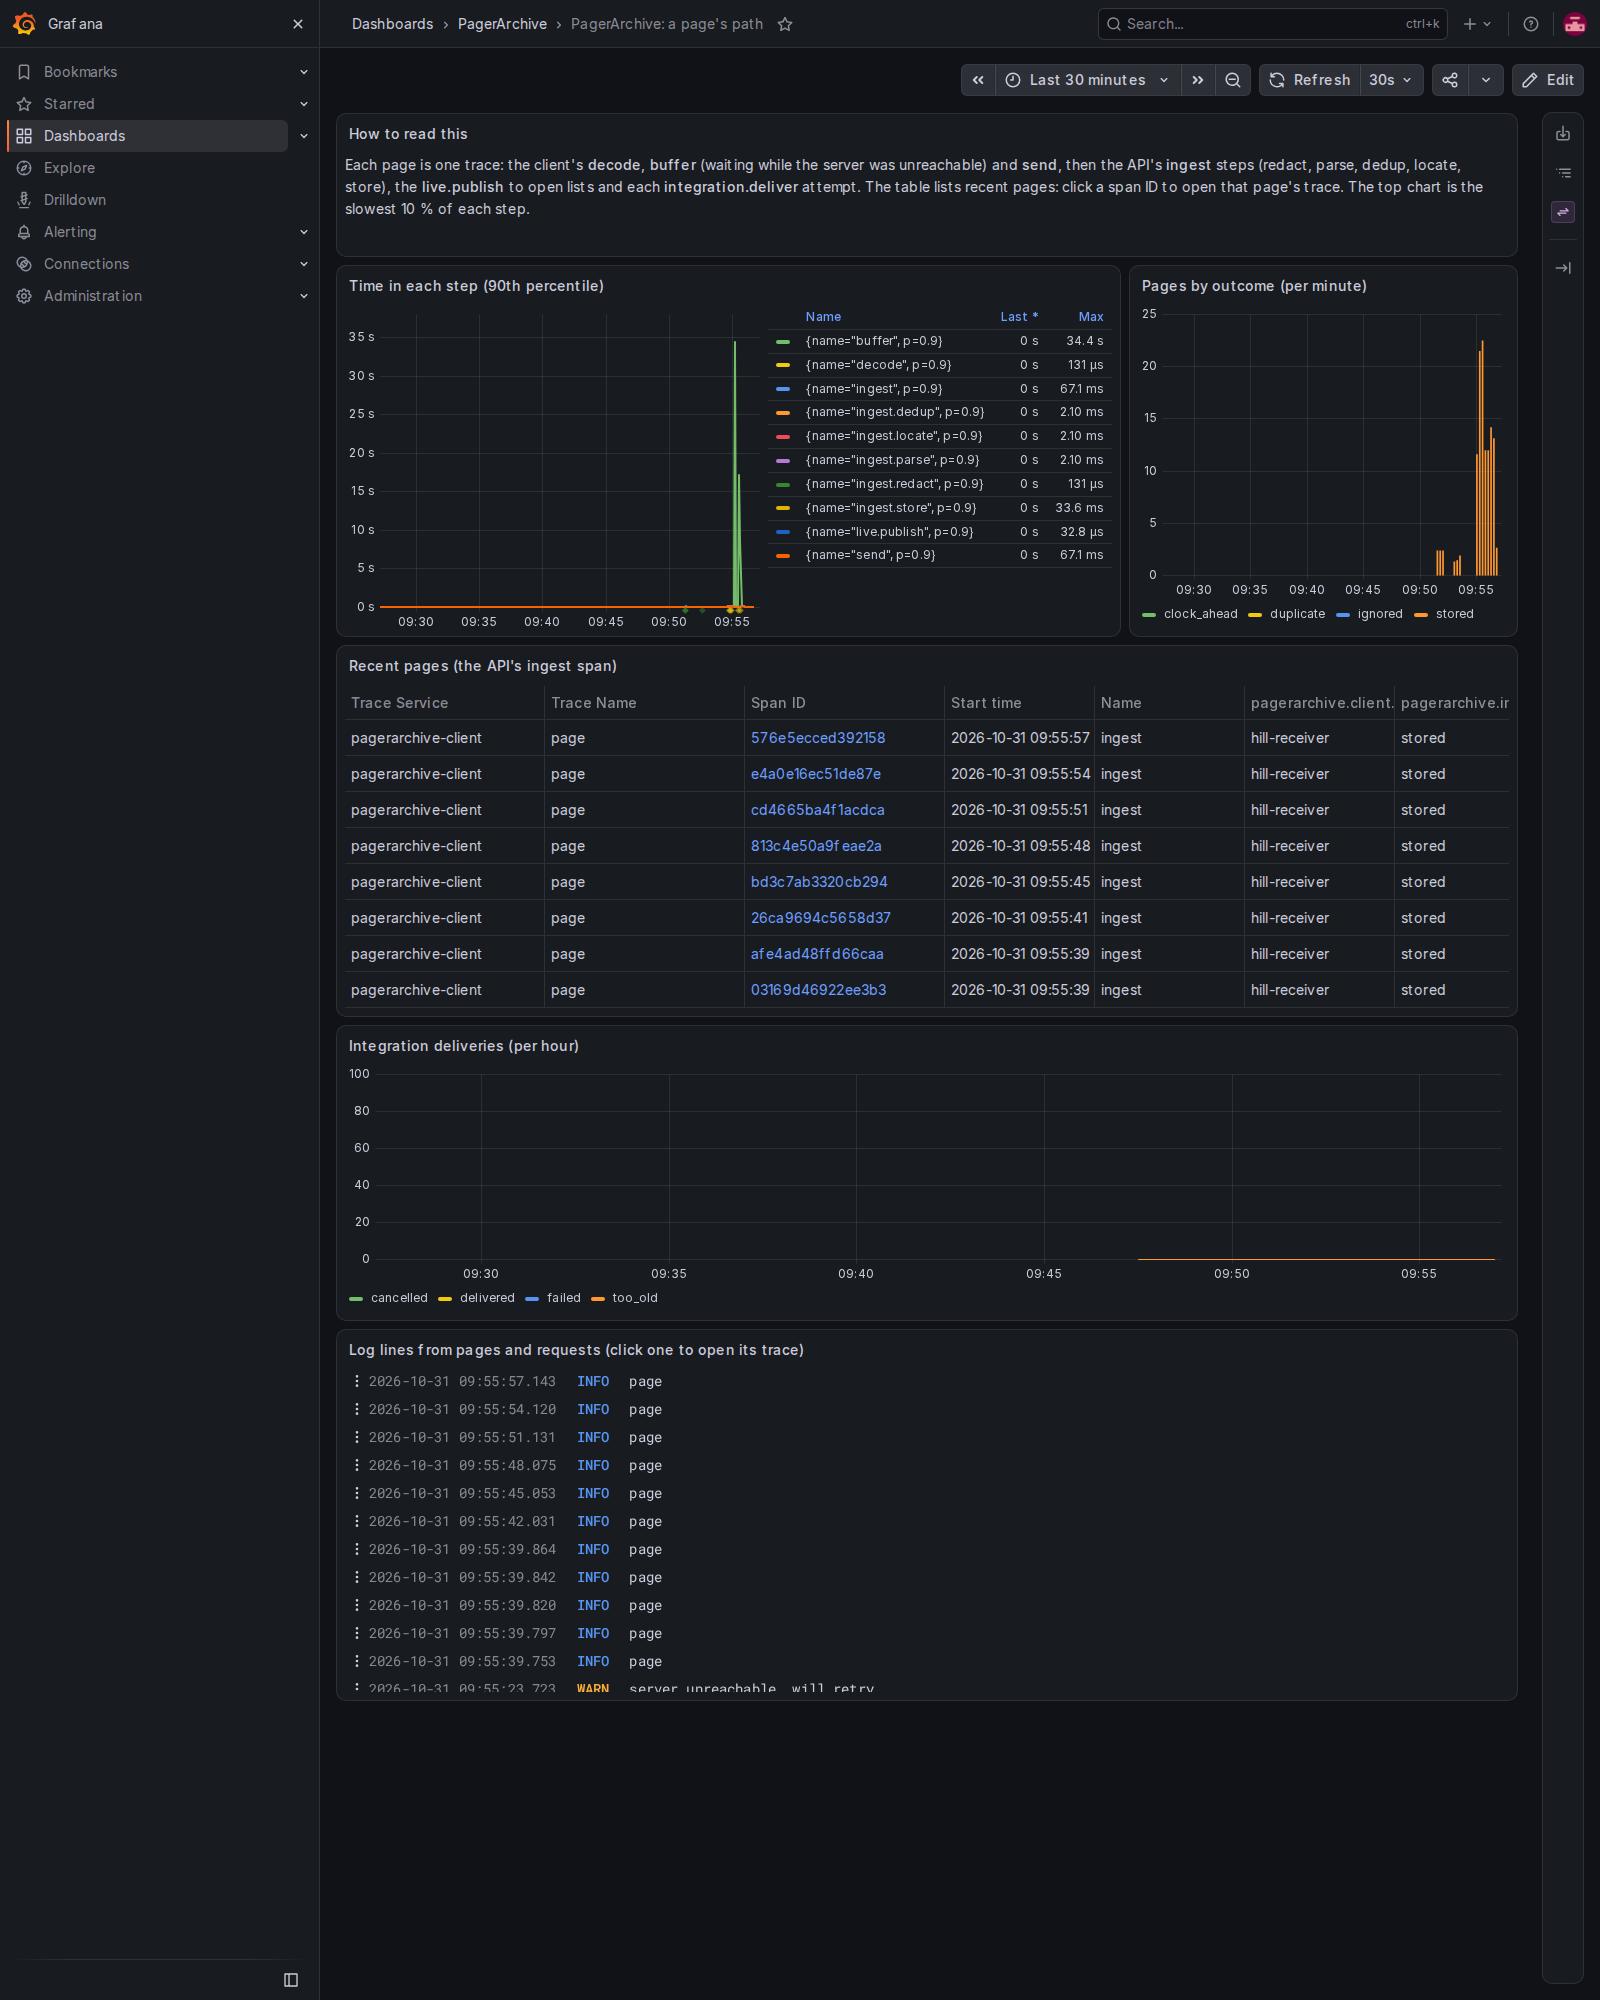
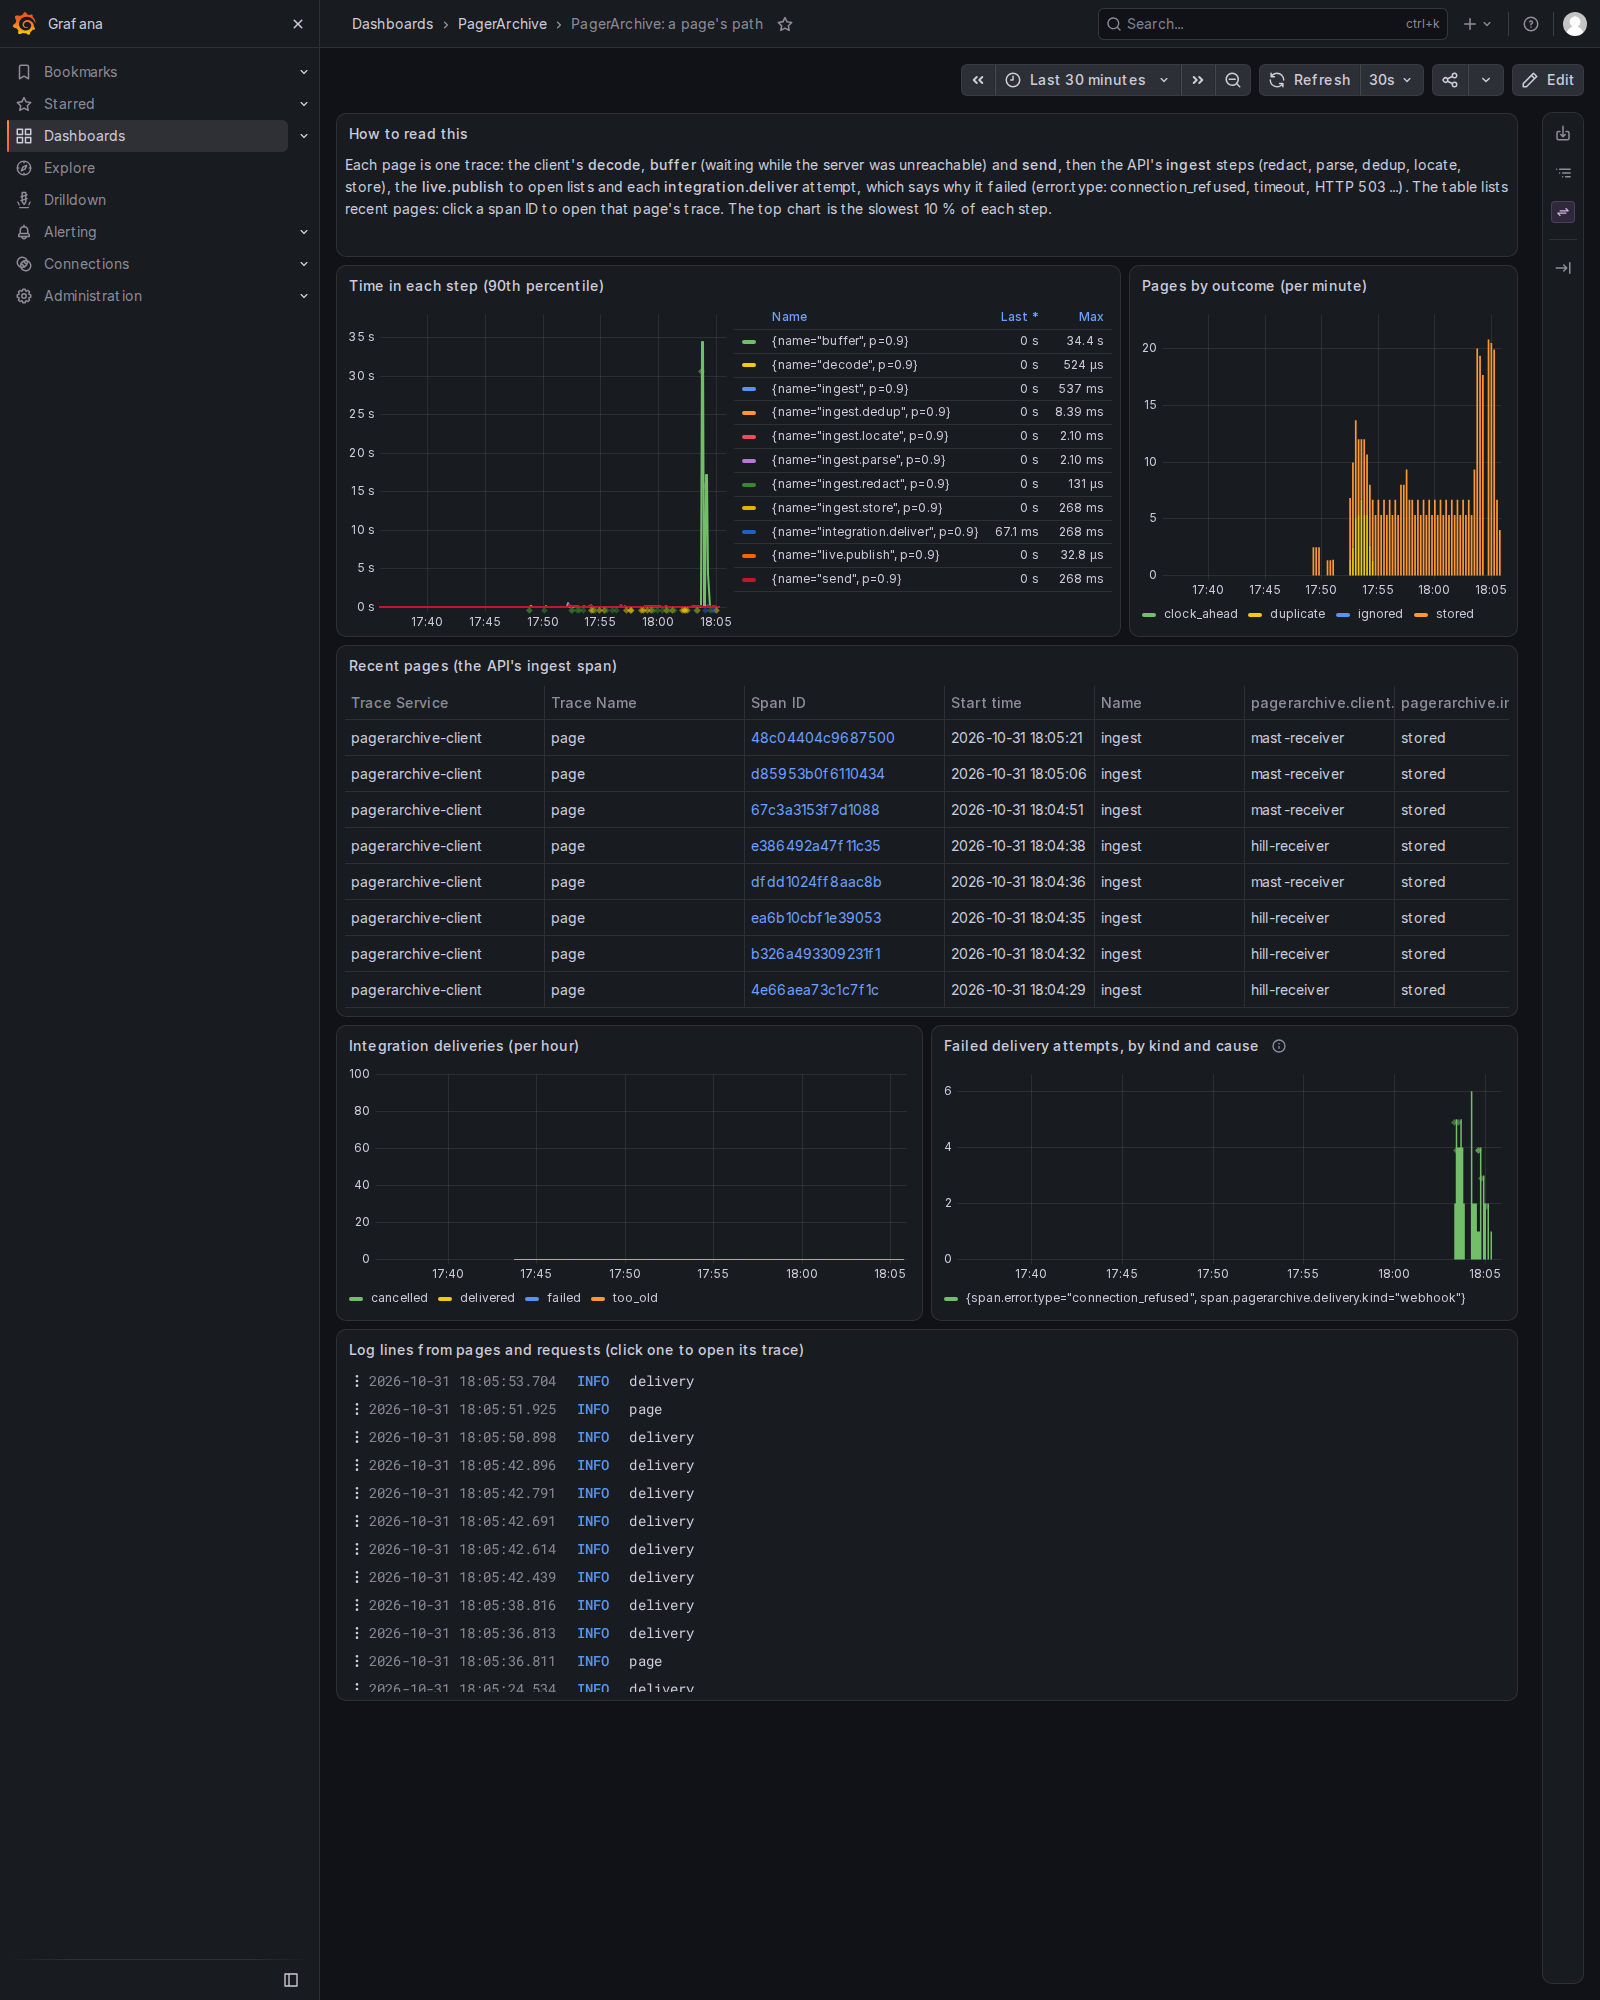
M12 addition: screenshots retaken (062f3ed run, each looked at), ADR 0013's evidence for radio health, A67, the delivery causes, the mutations and the cld01 trial

diff --git a/docs/adr/0013-m12-telemetry.md b/docs/adr/0013-m12-telemetry.md
@@ -427,3 +427,29 @@ From the owner's hands-on with the cld01 trial. Main 852dfa7 changed the spec fo
 - The page's-path dashboard has **"Failed delivery attempts, by kind and cause"** beside the deliveries chart: `{name="integration.deliver" && status=error} | count_over_time() by (span.pagerarchive.delivery.kind, span.error.type)`.
 
 **A67** runs in `scripts/monitoring-checks.sh` after A65 (CI's monitoring job, now allowed 60 minutes). Its clients are the **client image** on the API's network, with **`internal/radio/standin`** mounted as `/usr/local/bin/rtl_fm`. The stand-in prints rtl_fm 2.0.2's start-up lines, then writes 22,050 Hz signed 16-bit audio in real time: Gaussian hiss (as FM without squelch hears) with a made-up POCSAG page from the example network at 1200 baud every 10 s, from its own encoder (`TestCodeword` checks its BCH(31,21) and parity against the sync and idle codewords). Files in its directory pause the audio (`rtl_fm` keeps running), write the USB-transfer message, or write any line once. It records its arguments, the pages it wrote and the bytes written, and writes a marker string into the hiss as samples, so the test can look for audio in the stores. multimon-ng 1.3.1 in the client image decoded every page from the first try.
+
+**Evidence** (cld01 unless said; CI for the last commit is in the report):
+
+- **Unit tests** (`go test ./internal/radio/... ./internal/client/ ./internal/integrations/ ./internal/telemetry/`): `rtl_fm -f 148.8125M -M fm -s 22050 -p 0 -: no squelch`; `5242881 bytes passed through unchanged and counted`; `a minute of audio passed unchanged in 6ms while the metrics exporter hung`; `rtl_fm's messages exported as counts by kind only: map[no_device:0 open_failed:0 other:2 tuner_not_locked:0 usb_transfer_failed:1]`; `TestFailureCauses`: `webhook: 13 ways to fail, each with its cause on the span: HTTP 302, HTTP 401, HTTP 404, HTTP 429, HTTP 503, address_not_allowed, bad_request, connection_refused, dns_lookup_failed, no_answer, timeout, tls_not_tls, tls_not_trusted`, the same for Discord, Telegram, Pushover and ntfy, and `mqtt: 11 ways to fail …: address_not_allowed, auth_refused, bad_request, connection_refused, dns_lookup_failed, mqtt_protocol_refused, mqtt_unavailable, no_answer, timeout, tls_not_tls, tls_not_trusted`; `config.alloy keeps the same keys as filter.go (SpanKeys 21, LogKeys 44, ResourceKeys 11, MetricKeys 2)`.
+- **A62** with the cause: `delivery attempts [1:retry (HTTP 503, retryable) 2:delivered]`. A63 unchanged: `… 18 metric points … for 40 private strings: none found`.
+- **multimon-ng and the stand-in**, in the client image by hand before A67 existed: six pages written, six decoded (`POCSAG1200: Address:  100001  Function: 3  Alpha:   @@EX0670000 HSF1 SMOKE FROM ROOF @ 12 FICTION ST, MADEUPTON #STN1` …).
+- **A67** (`scripts/monitoring-checks.sh -s` from an export of 062f3ed, A65 first; the same in CI runs 41168324363 and 41173307848):
+  - `radio-a-175205 reports 44090 bytes of audio a second (the stand-in wrote 44090: 3320008 bytes in 75.3 s) at -14.3 dBFS`
+  - `multimon-ng decoded all 8 pages the stand-in wrote in 1m15s, each stored from radio-a-175205`
+  - `rtl_fm's messages by kind went from map[… other:13 … usb_transfer_failed:0] to map[… other:14 … usb_transfer_failed:1]`
+  - `none of ["STANDIN-UNKNOWN" "77770001" "canceling" "cb transfer" "STANDIN-AUDIO-f573d7b6"] in Prometheus' series, Loki's lines or Tempo's spans for the three clients`
+  - `"Radio stalled" fired for radio-a-175205 2m25s after its audio stopped` (for no other client, and no "Client not receiving"), `it resolved 23s after the audio resumed`
+  - `6m2s after radio-a-175205 stopped, the dashboard shows last report 362, last page decoded 372, last send that worked 372, buffered 0, radio running 0, audio 10904, audio level -15, radio silent for 0; stdin-c-175205 (stdin) has no radio health`
+  - The first run found no values at all in that last step: the test read Grafana's `/api/ds/query` answer as a table, but Grafana sends one frame per series with the labels on its value field (the browser builds the table). Fixed in the test; the dashboard was right.
+- **Mutations** (`scripts/mutation-checks.sh`, 5b35f31): 60 mutations, every one caught, none survived or skipped; unmutated, everything passed (acceptance, the new packages, A65 and A67, the print sheet's browser checks, Pester `Passed 372, failed 0`). The new ones:
+  - a failed delivery's cause dropped: `cause_test.go:192: error.type "other", pagerarchive.delivery.failure "retryable" (the owner sees "connection refused"); want "connection_refused", "retryable"`
+  - squelch added (`-l 70`): `radio_test.go:22: rtl_fm -f 148.8125M -M fm -s 22050 -l 70 -p 0 -: squelch (-l) is on, so a quiet channel would look like a stuck dongle`
+  - `rtl_fm`'s text as the kind label: `radio_test.go:110: pagerarchive.client.radio.messages exports rtl_fm's text: kind="STANDIN-UNKNOWN secret words"`
+  - measuring made blocking (each chunk handed to the metrics callback on an unbuffered channel): `radio_test.go:76: the audio stalled with the exporter hung: 0 of 2646000 bytes reached multimon-ng in 5 s`
+  - the "radio stalled" rule's query broken: `a67_test.go:320: no "Radio stalled" alert for radio-a-181420 within 4 minutes of its audio stopping; got 0 notifications`
+  - the clients panel back on instant queries only: `a67_test.go:367: radio-a-182729 stopped reporting 6m2s ago and the dashboard's "Each client's own view (last reported values in the time range)" has no last report for it`, then the same for last page decoded, last send that worked and buffered (the four lines the runner prints)
+  - (Those two lines are from running the same two mutations again on 062f3ed: in the full run, the runner printed only the first four lines of a stack check, which were the steps that passed before the failure. `mutation-checks.sh` now prints the failing lines.) The "client not receiving" mutation now runs A65 alone: `no "Client not receiving" alert for mon-a-163757 within 2 minutes; got 0 notifications`.
+- **A flaky test, found by CI** (5e3e51c's run): `TestRequestSpans` looked for the request's message ID, `123`, anywhere in the collector's dump, where base64 span IDs and nanosecond timestamps contain it by chance. On cld01 the old test failed 14 of 300 runs, all `a span carries the path or query`; with an ID that can't occur by chance, 1000 of 1000 passed. (That run's Windows PowerShell job failed while installing PowerShell: `aka.ms/pwsh-buildinfo-stable` answered with an error page. The next run passed.)
+- **e2e.sh** (5b35f31, three browsers): `140 passed`, `1 failed`: WebKit's "R44 signed-out visitors on a new install see first-admin set-up" timed out (the run took 1.2 min against its 30 s limit); run again alone: `1 passed` in 10.5 s. No web code changed in this work. CI's browser job passed in runs 41168324363, 41170205341 and 41173307848.
+- **Screenshots**: every image in `docs/monitoring/` is from the 062f3ed run above, and each was looked at. The first set (from 5b35f31) showed three faults, fixed before it: the clients dashboard's help text was cut off, its own-view table clipped its last two columns (Grafana's 150 px minimum column width; now 80 px, with wrapping), and `trace.png` showed a page whose trace was long only because a failing integration retried, with a 19 µs buffer span under a caption about buffering. The script now picks the page whose **buffer span** lasted over 10 s (`the client buffered the page for 31.0 s`).
+- **Trial on cld01's live copy** (upgraded to 5e3e51c with `upgrade-m12b.sh`; the backup restore-checked, 59 tables the same; the clients dashboard file then brought to 62c670e): the "Radio stalled" rule loaded (`health ok`); radio-demo, the client image with the stand-in, reported `44090.1` bytes of audio a second at `-16.3` dBFS; the replay client (stdin) has no radio series and the dashboard says *not run by the client*. `radio-demo.sh usb-error` made the stand-in print `cb transfer status: 1, canceling...`; `radio-demo.sh pause`: "Radio stalled" firing for radio-demo 161 s later, "Client not receiving" Normal, and the firing notification reached the webhook contact point; `radio-demo.sh resume`: Normal 26 s later, and the resolved notification arrived (05:28:56, the default policy's 5-minute group interval). With the replay client stopped for 370 s, the dashboard still showed it: `A Last report (s): replay=382.5`, `B Last page decoded (s ago): … replay=412.2`. With the test receiver answering webhooks with 503 for a minute, the owner's webhook integration's spans said `error.type=HTTP 503`, `failure=retryable` for attempts 1-3.
